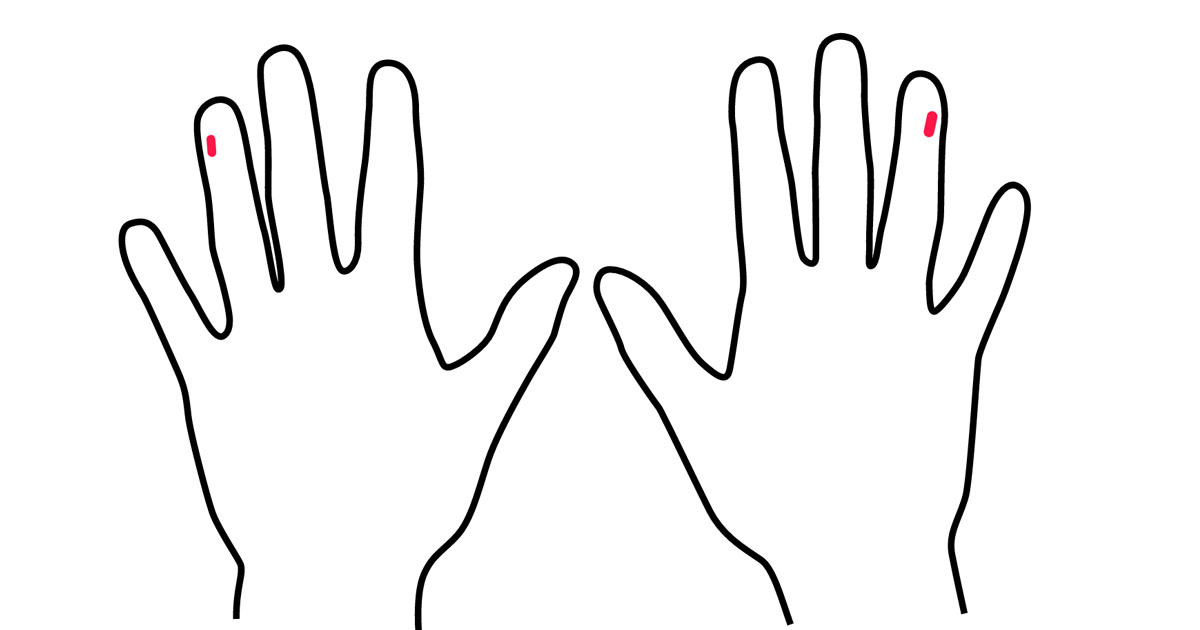
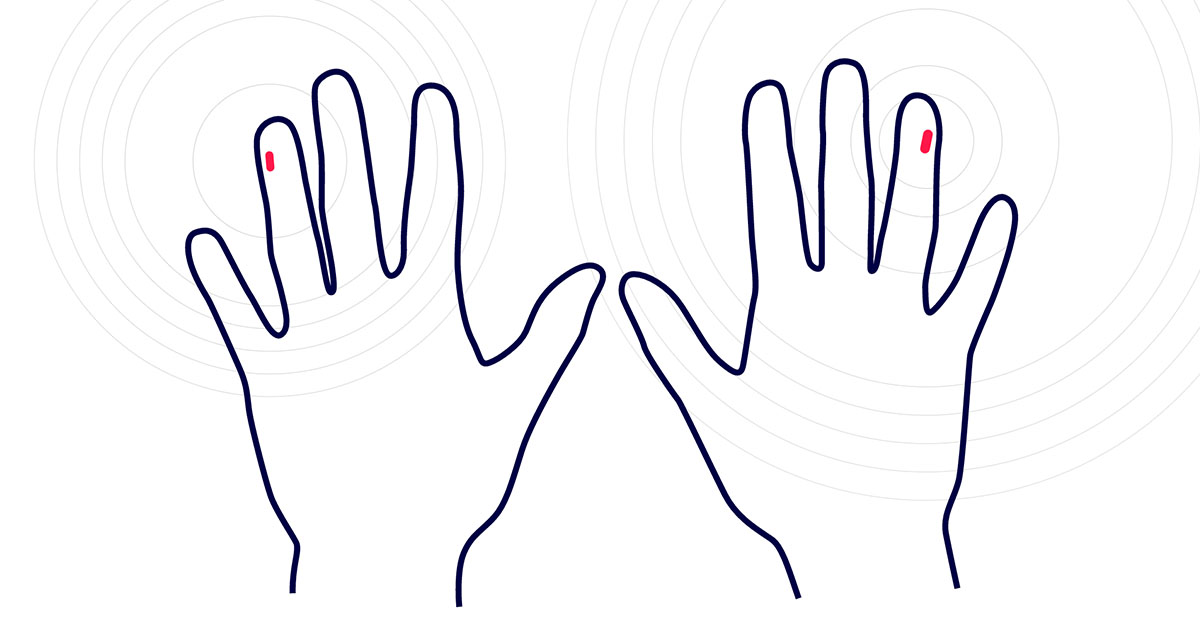
:rocket:

Changed region(s): [[0.0925, 0.0302, 0.8633, 1.0], [0.185, 0.7238, 0.2467, 0.9952]]

diff --git a/docs/index.html b/docs/index.html
@@ -1,5 +1,5 @@
-<!DOCTYPE html><html><head><meta charset="utf-8"><meta name="viewport" content="width=device-width,initial-scale=1,user-scalable=no"><title>Magnet Finge.rs</title><style>body {display: none; background: #f7ffb4}</style><link rel="icon" type="image/png" href="/favicon.png" sizes="64x64"><meta property="og:title" content="Magnet Finge.rs"><meta name="twitter:title" content="Magnet Finge.rs"><meta name="description" content="Magnet Finge.rs is a resource for magnetic finger implats, created by Charlotte Dann"><meta name="og:description" content="Magnet Finge.rs is a resource for magnetic finger implats, created by Charlotte Dann"><meta name="twitter:description" content="Magnet Finge.rs is a resource for magnetic finger implats, created by Charlotte Dann"><meta property="og:image" content="http://magnetfinge.rs/opengraph.jpg"><meta property="og:image:width" content="1200"><meta property="og:image:height" content="630"><meta name="twitter:image" content="http://magnetfinge.rs/twittercard.jpg"><script async src="https://www.googletagmanager.com/gtag/js?id=UA-132874169-1"></script><script>window.dataLayer = window.dataLayer || [];
+<!DOCTYPE html><html><head><meta charset="utf-8"><meta name="viewport" content="width=device-width,initial-scale=1,user-scalable=no"><title>Magnet Finge.rs</title><style>body {display: none; background: #f7ffb4}</style><link rel="icon" type="image/png" href="/favicon.png" sizes="64x64"><meta property="og:title" content="Magnet Finge.rs"><meta name="twitter:title" content="Magnet Finge.rs"><meta name="description" content="A resource for magnetic finger implants, created by Charlotte Dann. What is a magnetic implant? Why would you want such a thing? Are you going to die? Yes. We will all die."><meta name="og:description" content="A resource for magnetic finger implants, created by Charlotte Dann. What is a magnetic implant? Why would you want such a thing? Are you going to die? Yes. We will all die."><meta name="twitter:description" content="A resource for magnetic finger implants, created by Charlotte Dann. What is a magnetic implant? Why would you want such a thing? Are you going to die? Yes. We will all die."><meta property="og:image" content="http://magnetfinge.rs/opengraph.jpg"><meta property="og:image:width" content="1200"><meta property="og:image:height" content="630"><meta name="twitter:image" content="http://magnetfinge.rs/twittercard.jpg"><meta name="twitter:card" content="summary"><script async src="https://www.googletagmanager.com/gtag/js?id=UA-132874169-1"></script><script>window.dataLayer = window.dataLayer || [];
 function gtag(){dataLayer.push(arguments);}
 gtag('js', new Date());
 gtag('config', 'UA-132874169-1');
-</script><link href="/main.css" rel="stylesheet"></head><body><div class="intro"><svg class="hands" xmlns="http://www.w3.org/2000/svg" viewBox="0 0 841.7 558.7"><path class="hands__outline" d="M110.3 537.4c-.8-27.2 6.6-40 4-49.2-1.5-5.2-20.2-31.6-25.6-47-5.4-15.5-20.5-73.4-22.2-88.6-1.8-15.2-2.1-23.6-9.5-40.2-7.3-16.6-27.4-62.4-31.8-69.5s-13.3-21.5-17.1-36.3c-3.8-14.9-2.2-26.1 5.7-28.8 7.9-2.7 18.1-4.2 25.9 10.1 7.9 14.3 20.3 40.4 28.5 53.1 8.3 12.7 21.3 45.5 30.9 38.6s3.2-27.5 0-41.5-8.7-28.5-10.3-37.6c-1.6-9.2-2-37.3-5.1-53.2-3.1-16-12.3-54.5-8-66.9C80 68 94.4 60.2 105.5 68.1s15.7 50.4 17.9 60.3c2.2 9.9 8.3 42.5 12.2 55.8s8.5 52.2 12.4 53.2 4.1-5 1.8-22.6-9.7-49.6-10.4-61c-.7-11.4 1-41.1-.9-55.6s-8.8-56.6-5.3-66.6 24-22.8 34.7-5.2 13.1 50.2 15 60.1 7 54.1 9.5 64.3c2.5 10.2 4.8 65.3 14.4 69.9 4.4 2.1 15.1-5 14.3-27.4-.9-22.5 3.6-53 5.8-68.1 2.7-17.8 2.7-37.6 4.1-50.8 1.4-13.3-3.6-41.8 15.8-42.9 19.5-1.1 26.7 19.9 26.7 42.3 0 21.1 5.6 45.9 4.5 67.9-1.1 22-4.5 51.1-3.2 72.6 1.3 21.5 5.4 53.3 14.3 70.7 9 17.4 7.6 26 16.9 22.8 9.3-3.3 30.2-17.3 36.6-31.1 6.5-13.9 10-32.3 31.4-49.6 21.5-17.3 35-19.6 42.5-12.6s-.5 18.4-5.6 28.3c-5.2 10-9.1 27.9-11.6 35.8-1.7 5.6-15.5 26.5-23.3 40.3-7.8 13.7-28.8 50.2-36.8 74.6s-14.6 52.7-27.5 67.3c-12.9 14.7-23.5 18.2-31.1 36.9-7.5 18.8-4.3 53.2-4.3 53.2M614.5 542.4c-7.3-20.2-15.2-49.8-25.7-57.8s-34.7-19.9-47.6-45.1c-12.9-25.2-43.1-89.8-46.7-94.6-3.6-4.8-31.8-44.1-34.1-54s-18.2-38.9-21-47.4c-2.9-8.5-1.5-24.3 11.2-24.1 12.7.2 33.8 11.2 47.5 32.4s24.8 43.2 36.8 53.8c12 10.6 21.1 17 23.8 6.5 2.7-10.5 8.4-57.3 11.6-69.5 3.2-12.2-.7-38-2.2-56.6-1.5-18.6-4.3-88.6-6.1-97.1s-1.8-39 5.5-49.8 23.1-14.8 29.1-5.2c6 9.6 8.1 48.6 8.9 56.9s8.5 38.9 10.3 52.1c1.8 13.2 5.9 61.4 10.6 66.8 4.7 5.4 11.1 7 11.2-2 .1-9-.2-66.8-.7-74.1s3-47 1.8-55.6.1-46.1 3.1-57S656 4 669.7 9.2s12 42 11.9 51.4 2.8 47.3 5.1 63.1c2.3 15.9-1 60.2-.5 72.2.4 12-2.2 22.9 2.6 19.9s5.2-22.7 9-36.6 13.6-71 14.5-87.8c.9-16.8.4-51.8 21.6-50.1 21.1 1.7 22.6 35.3 19.9 50.8-2.7 15.5-2 68.6-2.9 81s-10.7 48.1-10.3 59.4-.1 29.8 6.9 24.1 19.3-22.1 24.6-32.8c5.3-10.7 15.3-37.4 20.8-51.4s17.1-36.5 29.6-27.9 6.9 30.3 2.9 46.4c-4 16.1-15.3 47.9-19.1 56.8-3.8 8.9-19 42.6-20.8 52.1-1.7 9.5-7 106-11.5 125s-16.6 33.4-12.7 53.6 11.4 54.1 11.4 54.1"></path><path class="hands__magnets" id="rightMagnet" d="M739.4 99c-2.6-.5-4.3-3.1-3.7-5.7l2.9-14.1c.5-2.6 3.1-4.3 5.7-3.7 2.6.5 4.3 3.1 3.7 5.7l-2.9 14.1c-.6 2.6-3.1 4.3-5.7 3.7z"></path><path class="hands__magnets" id="leftMagnet" d="M88.4 117c-2.2.2-4.2-1.5-4.3-3.7l-1-12c-.2-2.2 1.5-4.2 3.7-4.3 2.2-.2 4.2 1.5 4.3 3.7l1 12c.2 2.2-1.4 4.1-3.7 4.3z"></path></svg><h1>I have magnets implanted in my hands</h1></div><div class="tldr"><h2 class="tldr__title">TLDR;</h2><div class="tldr__table"><div class="tldr__column"><svg class="tldr__column__title tldr__column__title--positive" xmlns="http://www.w3.org/2000/svg" viewBox="0 0 41.8 52.4" title="good things"><path d="M20.1 18.8c0-1.3.4-3.3 1.1-6.1 1.1-4.1-1.7-8-5-9.5-.7-.3-1.2-.2-1.6.2-.1.2-.1.3-.1.5 0 .9.1 1.9 0 2.7 0 .7 0 1.4-.1 2-.3 3.6-1 5.6-3 9.5-1 1.9-2.2 3.3-3.8 4.8-.5.5-2.1 1.8-2.1 1.9-.3.2-.5.4-.7.6-2.5 6.7-2.3 16.9.4 22.2 3.8.9 8.1 1.5 12.1 1.7-.4-.7-.7-1.6-.7-2.6s.4-2 .9-2.7c-1.8-1-2.6-2.9-2.3-5.1.1-1 .4-1.8.9-2.4-1.4-1.1-2-2.8-1.8-5 .3-2 1.2-3.5 2.6-4.2-.5-.8-.7-2-.6-3.4.3-3.1 1.4-4.3 3.8-5.1zm4 2.4c-.1 0-.2 0-.2.1l-2.6.3h-.1c-1.5.5-1.7.7-1.9 2.5-.2 1.7.3 2.1 2 2.5 1.2.3 3.1.5 5.6.5.8 0 1.5.7 1.5 1.5s-.7 1.5-1.5 1.5c-1.7-.1-3.3-.2-4.5-.3h-3.3c-.9 0-1.5.6-1.7 2.1-.2 1.8.3 2.6 2.2 2.7 1.3.1 3.1.2 4.9.3.8 0 1.5.7 1.5 1.5s-.7 1.5-1.5 1.5c-.9 0-1.8-.1-2.6-.1h-2.3c-.8 0-1.2.4-1.4 1.6-.2 1.4.4 2.3 2.2 2.5 1 .1 2 .2 3 .2h1.7c.8 0 1.5.7 1.5 1.5s-.7 1.5-1.5 1.5h-3.7c-.9 0-1.9.8-1.9 1.8 0 1.2.6 1.8 2.9 2 2.7.3 7.5.1 8.8-.4.2-.1.3-.1.5-.1.2-.1.3-.1.4-.2 1-.5 1.6-1.7 1.4-4.9 0-.5.2-1 .6-1.3 2-1.4 2.3-2.9 1.5-5.6-.2-.8.3-1.7 1.2-1.9.4-.1 1-.9 1.3-2.1.3-1.2.1-2.3-.3-2.6-.7-.6-.7-1.6-.1-2.2.5-.4 1-1.8 1-2.9 0-2-.7-2.9-2.6-3.2-1.2-.2-2.6-.3-4.1-.4-2.5-.1-5.2 0-7.8.2 0-.1 0-.1-.1-.1zm9.4 29.6c-.3.2-.6.3-1 .4-.1 0-.3.1-.4.1l-.3.1c-5.4 1.5-18.4 1.4-27.9-1.1-.4-.1-.7-.3-.9-.7-3.5-6-3.8-17.9-.8-25.6.1-.2.2-.4.3-.5.3-.3.7-.7 1.1-1 .1-.1 1.6-1.4 2.1-1.8 1.4-1.3 2.4-2.5 3.2-4 1.9-3.6 2.4-5.3 2.7-8.4 0-.5.1-1.1.1-1.7V4v-.9c0-.3.1-.6.2-.9.2-.3.5-.7.9-1.1C14.1 0 15.7-.4 17.6.5c4.5 2 8.2 7.3 6.7 13-.5 2-.8 3.6-1 4.7.3.1.6 0 .9 0 2.7-.2 5.5-.3 8.2-.2 1.6.1 3.1.2 4.5.4 3.5.6 5.2 2.7 5.1 6.2 0 1.4-.4 2.9-1.1 4 1.3 2.5.4 6.5-1.8 8.1.6 2.9 0 5.3-2.3 7.2-.2 3.8-1.3 5.9-3.3 6.9z"></path></svg><div class="tldr__column__item">sense EM fields</div><div class="tldr__column__item">pick up tiny things</div><div class="tldr__column__item">freak out friends</div></div><div class="tldr__column"><svg class="tldr__column__title tldr__column__title--negative" xmlns="http://www.w3.org/2000/svg" viewBox="0 0 41.8 52.4" title="bad things"><path d="M21.7 33.6c0 1.3-.4 3.3-1.1 6.1-1.1 4.1 1.7 8 5 9.5.7.3 1.2.2 1.6-.2.1-.2.1-.3.1-.5 0-.9-.1-1.9 0-2.7 0-.7 0-1.4.1-2 .3-3.6 1-5.6 3-9.5 1-1.9 2.2-3.3 3.8-4.8.5-.5 2.1-1.8 2.1-1.9.3-.2.5-.5.7-.7 2.5-6.7 2.3-16.9-.4-22.2-3.8-.9-8.1-1.5-12.1-1.7.4.7.7 1.6.7 2.6s-.4 2-.9 2.7c1.8 1 2.6 2.9 2.3 5.1-.1 1-.4 1.8-.9 2.4 1.4 1.1 2 2.8 1.8 5-.3 2-1.2 3.5-2.6 4.2.5.8.7 2 .6 3.4-.3 3.2-1.4 4.3-3.8 5.2zm-4-2.4c.1 0 .2 0 .2-.1l2.6-.3h.1c1.5-.5 1.7-.7 1.9-2.5.2-1.7-.3-2.1-2-2.5-1.2-.3-3.1-.5-5.6-.5-.8 0-1.5-.7-1.5-1.5s.7-1.5 1.5-1.5c1.7.1 3.3.2 4.5.3h3.3c.9 0 1.5-.6 1.7-2.1.2-1.8-.3-2.6-2.2-2.7-1.3-.1-3.1-.2-4.9-.3-.8 0-1.5-.7-1.5-1.5s.7-1.5 1.5-1.5c.9 0 1.8.1 2.6.1h2.3c.8 0 1.2-.4 1.4-1.6.2-1.4-.4-2.3-2.2-2.5-1-.1-2-.2-3-.2h-1.7c-.8 0-1.5-.7-1.5-1.5s.7-1.5 1.5-1.5h3.7c.9 0 1.9-.8 1.9-1.8 0-1.2-.6-1.8-2.9-2-2.7-.3-7.5-.1-8.8.4-.2.1-.3.1-.5.1-.2.1-.3.2-.5.2-.9.5-1.5 1.8-1.4 4.9 0 .5-.2 1-.6 1.3-2 1.4-2.3 2.9-1.5 5.6.2.8-.3 1.7-1.2 1.9-.4.1-1 .9-1.3 2.1-.3 1.2-.1 2.3.3 2.6.7.6.7 1.6.1 2.2-.5.4-1 1.8-1 2.9 0 2 .7 2.9 2.6 3.2 1.2.2 2.6.3 4.1.4 2.5.1 5.2 0 7.8-.2.1.1.1.1.2.1zM8.3 1.5c.3-.2.6-.3 1-.4.1 0 .3-.1.4-.1l.3-.1C15.5-.5 28.5-.4 38 2c.4.1.7.3.9.7 3.5 6 3.8 17.9.8 25.6-.1.2-.2.4-.3.5-.3.3-.7.7-1.1 1-.1.1-1.6 1.4-2.1 1.8-1.4 1.3-2.4 2.5-3.2 4-1.9 3.6-2.4 5.3-2.7 8.4 0 .5-.1 1.1-.1 1.7v3.5c0 .3-.1.6-.2.9-.2.3-.5.7-.9 1.1-1.3 1.1-2.9 1.5-4.8.6-4.5-2-8.2-7.3-6.7-13 .5-2 .8-3.6 1-4.7-.3-.1-.6 0-.9 0-2.7.2-5.5.3-8.2.2-1.5 0-3-.1-4.4-.3-3.4-.6-5.1-2.8-5.1-6.2 0-1.4.4-2.9 1.1-4-1.3-2.5-.4-6.5 1.8-8.1-.6-2.9 0-5.3 2.3-7.2 0-3.8 1.1-6 3.1-7z"></path></svg><div class="tldr__column__item">painful procedure</div><div class="tldr__column__item">can't get MRIs</div><div class="tldr__column__item">wipes hotel keycards</div></div></div></div><div class="faqs"><h2 class="faqs__title">Frequently Asked Questions</h2><div class="faq"><input class="faq__checkbox" type="checkbox" id="faq1"><label class="faq__question" for="faq1">Why would you do this?</label><p class="faq__answer">I got my implants primarily to experiment with electromagnetic fields as an extra human sense. I also find being able to sense live wires and check whether metals are ferrous genuinely useful functions as a maker - not to mention picking up dropped clothes pins.</p></div><div class="faq"><input class="faq__checkbox" type="checkbox" checked id="faq2"><label class="faq__question" for="faq2">How does the EM field thing work?</label><p class="faq__answer">Electromagnetic fields cause the magnet’s polarity to flip, making it vibrate slightly under the skin. As there are a lot of nerve endings in the fingertips you can feel the vibration, varying in strength and frequency.</p></div><div class="faq"><input class="faq__checkbox" type="checkbox" id="faq3"><label class="faq__question" for="faq3">What can you sense?</label><p class="faq__answer">Microwaves, high voltage cables (ones that run under canal towpaths are very potent), approaching underground trains, any sort of motor if you’re close enough. It is surprising how many pockets of EM fields you can find around the house.</p></div><div class="faq"><input class="faq__checkbox" type="checkbox" id="faq4"><label class="faq__question" for="faq4">What does it feel like?</label><p class="faq__answer">The EM vibration is a strange sensation, especially when you first start feeling it. After about 6 months it stopped feeling like a sensation in my finger, and more a sense hooked up in my brain to ‘there’s some EM fields near your hand’.</p></div><div class="faq"><input class="faq__checkbox" type="checkbox" checked id="faq5"><label class="faq__question" for="faq5">What are they made from?</label><p class="faq__answer">Mine are both rounded rice-shaped neodymium magnets, coated in gold and then coated in medical grade silicone.</p></div><div class="faq"><input class="faq__checkbox" type="checkbox" id="faq6"><label class="faq__question" for="faq6">What’s the procedure like?</label><p class="faq__answer">Quite terrifying. If you are considering this you need to make sure it’s in a sterile environment and the procedure is done by a medical professional. You should receive some local anesthetic, then an incision is made horizontally above the desired position of the magnet. Space under the skin is hollowed out and the magnet is pushed in. A single stitch closes the incision. The finger should be kept on ice for at least 3 hours, ibuprofen can help ease the pain over the following 2 days. The magnet can move under the skin so should be recentered until it is stuck in position (just to the side of the finger pad). After a week you can use the finger for light work, and it will be fully healed in a month. </p></div><div class="faq"><input class="faq__checkbox" type="checkbox" id="faq7"><label class="faq__question" for="faq7">When and where did you get yours implanted?</label><p class="faq__answer">The smaller magnet in my left hand was implanted in December 2015, the other in November 2016. I had them both done by a body mod artist in New York for $150 each. I found one person in London who would do the procedure for £200 a pop.</p></div><div class="faq"><input class="faq__checkbox" type="checkbox" id="faq8"><label class="faq__question" for="faq8">Why are they in your ring finger?</label><p class="faq__answer">Although this is now a pretty safe procedure and the magnets are rarely rejected or break, when the first implants were being done in the early 2000s it was quite dangerous. They recommend you get the implant in your least dominant hand, in the least important finger, so that if necessary the finger can be amputated and minimally affect your hand functionality. You asked the question. Shut up.</p></div><div class="faq"><input class="faq__checkbox" type="checkbox" id="faq9"><label class="faq__question" for="faq9">Why do you have two?</label><p class="faq__answer">I was offered a choice of two sizes and was a bit hesitant to go big on my first try, so I picked the small one. I went back to get the bigger one in my other hand to increase the sensation and weight of things I could pick up, and also to experiment with a 3D EM sense (like having 2 eyes for perspective).</p></div><div class="faq"><input class="faq__checkbox" type="checkbox" id="faq10"><label class="faq__question" for="faq10">Can you see them?</label><p class="faq__answer">You can see them under the skin if you’re looking due to a slight discoloration, but they’re not obvious.</p></div><div class="faq"><input class="faq__checkbox" type="checkbox" checked id="faq11"><label class="faq__question" for="faq11">Can you feel them?</label><p class="faq__answer">Yes you can feel them under the skin. Good way to freak people out / prove it’s real.</p></div><div class="faq"><input class="faq__checkbox" type="checkbox" id="faq12"><label class="faq__question" for="faq12">Do they affect what you can do with your hands?</label><p class="faq__answer">Minimally. If placed properly they shouldn’t get in the way of typing, for example. I struggle a bit to play the guitar when I have to use my ring finger to hold down multiple strings. It is an unyielding object inside your hand though, so sometimes if you hit it at the wrong angle it can hurt; I had this at the start with light switches quite often but I guess I adapted my style of flipping light switches. You have to be wary around other magnets, because strong ones can hurt a lot (literally the magnet inside of you is being pulled out. not nice.), this is an increasing concern because for some reason magnets are in everything now - I can’t put the pads of my fingers against the edge of my laptop because of the magnetic closing mechanism. Also my phone has a magnetic sensor in the back for smart cases so it randomly locks itself when I’m holding it which is very annoying, but you get used to these kind of things and naturally avoid them.</p></div><div class="faq"><input class="faq__checkbox" type="checkbox" checked id="faq13"><label class="faq__question" for="faq13">What’s the heaviest thing you can pick up?</label><p class="faq__answer">The small magnet is quite pathetic, maybe 5 paperclips. The big magnet can pick up a ballpoint pen, or a small spoon.</p></div><div class="faq"><input class="faq__checkbox" type="checkbox" id="faq14"><label class="faq__question" for="faq14">Don’t you break [insert electronic object here]?</label><p class="faq__answer">I wipe hotel keycards instantly unless I hold them between my index finger and thumb, and have the ring finger tucked into my palm (a pose I’m used to now, and one that only matters when you have them in both hands). Besides that you’re all good; never had a problem with phones or credit cards or hard drives or SD cards. AFAIK they’re too small to have any significant effect on electronics.</p></div><div class="faq"><input class="faq__checkbox" type="checkbox" id="faq15"><label class="faq__question" for="faq15">Can you get MRIs?</label><p class="faq__answer">Not as is. I have heard that if you tell the radiologist that you have the implant they can add some sort of guard or tape to cover it up that won’t affect the machine, but conflictingly have heard people being turned down for MRIs because of it. I have not faced this problem yet, but have been damn sure to tell all my emergency contacts to immediately tell my medics about the implants if I’m in an accident.</p></div><div class="faq"><input class="faq__checkbox" type="checkbox" id="faq16"><label class="faq__question" for="faq16">Can you go through airport security?</label><p class="faq__answer">Yep, not a problem.</p></div><div class="faq"><input class="faq__checkbox" type="checkbox" id="faq17"><label class="faq__question" for="faq17">Is it dangerous?</label><p class="faq__answer">The danger is in the coating of the magnet breaking down and the metal getting into your blood, hence the whole ‘disposable finger’ thing. I am cautious of any changes in the sensation of the magnets and will not hesitate to have them removed if I am concerned. If something breaks down they should be able to be taken out without damage to the rest of the finger if you catch it early enough. There is a very small chance of this happening though.</p></div><div class="faq"><input class="faq__checkbox" type="checkbox" id="faq18"><label class="faq__question" for="faq18">Do they wear out?</label><p class="faq__answer">Apparently they do. Some say their magnetism dropped off at the 5 year mark, others have said 10-15 years, it depends on the quality of your magnets. Mine are 2 and 3 years old and are still fully functional. I will probably have them removed once they demagnetise.</p></div><div class="faq"><input class="faq__checkbox" type="checkbox" id="faq19"><label class="faq__question" for="faq19">How do you have them taken out?</label><p class="faq__answer">In a sterile environment by a medical professional. I have been told that you can get them removed at A&E (that’s ER to you yanks) with no questions asked. Yay NHS. I have yet to check the validity of this claim. Assuming it’s a bit more gory than the implantation because they’d have to cut away the surrounding tissue. Not looking forward to that.</p></div><div class="faq"><input class="faq__checkbox" type="checkbox" id="faq20"><label class="faq__question" for="faq20">Where can I get one?</label><p class="faq__answer">You still think this is a good idea! Cool! Biohackers seem quite reluctant to share this data, I had to crawl a lot of forums to find the right person to do mine, and I feel I should respect that reticence. That being said, if you need a NYC recommendation send me an email and I’ll pass you on to my guy. (I have a guy!)</p></div><div class="faq"><input class="faq__checkbox" type="checkbox" id="faq21"><label class="faq__question" for="faq21">What other implants exist?</label><p class="faq__answer">RFID and NFC chips are quite abundant but limited in functionality. I’ve seen quite a few large and intrusive biohacking experiments, which I personally wouldn’t touch with a 10ft pole.</p></div></div><div class="research"><h2 class="research__title">Projects</h2><p class="research__description">A few of my projects involving magnet fingers</p><div class="research__table"><div class="research__item"><div class="research__item__video"><iframe width="560" height="315" src="https://www.youtube.com/embed/oeN270w83Cw?color=white&amp;rel=0" frameborder="0" allow="accelerometer; autoplay; encrypted-media; gyroscope; picture-in-picture" allowfullscreen=""></iframe></div><p class="research__item__description">Visualising disturbances to the magnetic field <a href="https://pouretrebelle.github.io/magnetic-drawing-machine/">more info →</a></p></div><div class="research__item"><div class="research__item__video"><iframe width="560" height="315" src="https://www.youtube.com/embed/bYPkuMVaIxE?color=white&amp;rel=0" frameborder="0" allow="accelerometer; autoplay; encrypted-media; gyroscope; picture-in-picture" allowfullscreen=""></iframe></div><p class="research__item__description">A device that communicates invisibly with morse code <a href="https://pouretrebelle.github.io/arduino-morse/">more info →</a></p></div></div><p class="research__footnote">I would love to do some more research with this technology, especially in the fields of linguistics and compensation for sensory disability. If you're intersted in working with me please <a href="mailto:ask@pouretrebelle">shoot me an email</a> and we can have a chat about it.</p></div><script type="text/javascript" src="/main.js"></script></body></html>
+</script><link href="/main.css" rel="stylesheet"></head><body><div class="intro"><svg class="hands" xmlns="http://www.w3.org/2000/svg" viewBox="0 0 841.7 558.7"><path class="hands__outline" d="M110.3 537.4c-.8-27.2 6.6-40 4-49.2-1.5-5.2-20.2-31.6-25.6-47-5.4-15.5-20.5-73.4-22.2-88.6-1.8-15.2-2.1-23.6-9.5-40.2-7.3-16.6-27.4-62.4-31.8-69.5s-13.3-21.5-17.1-36.3c-3.8-14.9-2.2-26.1 5.7-28.8 7.9-2.7 18.1-4.2 25.9 10.1 7.9 14.3 20.3 40.4 28.5 53.1 8.3 12.7 21.3 45.5 30.9 38.6s3.2-27.5 0-41.5-8.7-28.5-10.3-37.6c-1.6-9.2-2-37.3-5.1-53.2-3.1-16-12.3-54.5-8-66.9C80 68 94.4 60.2 105.5 68.1s15.7 50.4 17.9 60.3c2.2 9.9 8.3 42.5 12.2 55.8s8.5 52.2 12.4 53.2 4.1-5 1.8-22.6-9.7-49.6-10.4-61c-.7-11.4 1-41.1-.9-55.6s-8.8-56.6-5.3-66.6 24-22.8 34.7-5.2 13.1 50.2 15 60.1 7 54.1 9.5 64.3c2.5 10.2 4.8 65.3 14.4 69.9 4.4 2.1 15.1-5 14.3-27.4-.9-22.5 3.6-53 5.8-68.1 2.7-17.8 2.7-37.6 4.1-50.8 1.4-13.3-3.6-41.8 15.8-42.9 19.5-1.1 26.7 19.9 26.7 42.3 0 21.1 5.6 45.9 4.5 67.9-1.1 22-4.5 51.1-3.2 72.6 1.3 21.5 5.4 53.3 14.3 70.7 9 17.4 7.6 26 16.9 22.8 9.3-3.3 30.2-17.3 36.6-31.1 6.5-13.9 10-32.3 31.4-49.6 21.5-17.3 35-19.6 42.5-12.6s-.5 18.4-5.6 28.3c-5.2 10-9.1 27.9-11.6 35.8-1.7 5.6-15.5 26.5-23.3 40.3-7.8 13.7-28.8 50.2-36.8 74.6s-14.6 52.7-27.5 67.3c-12.9 14.7-23.5 18.2-31.1 36.9-7.5 18.8-4.3 53.2-4.3 53.2M614.5 542.4c-7.3-20.2-15.2-49.8-25.7-57.8s-34.7-19.9-47.6-45.1c-12.9-25.2-43.1-89.8-46.7-94.6-3.6-4.8-31.8-44.1-34.1-54s-18.2-38.9-21-47.4c-2.9-8.5-1.5-24.3 11.2-24.1 12.7.2 33.8 11.2 47.5 32.4s24.8 43.2 36.8 53.8c12 10.6 21.1 17 23.8 6.5 2.7-10.5 8.4-57.3 11.6-69.5 3.2-12.2-.7-38-2.2-56.6-1.5-18.6-4.3-88.6-6.1-97.1s-1.8-39 5.5-49.8 23.1-14.8 29.1-5.2c6 9.6 8.1 48.6 8.9 56.9s8.5 38.9 10.3 52.1c1.8 13.2 5.9 61.4 10.6 66.8 4.7 5.4 11.1 7 11.2-2 .1-9-.2-66.8-.7-74.1s3-47 1.8-55.6.1-46.1 3.1-57S656 4 669.7 9.2s12 42 11.9 51.4 2.8 47.3 5.1 63.1c2.3 15.9-1 60.2-.5 72.2.4 12-2.2 22.9 2.6 19.9s5.2-22.7 9-36.6 13.6-71 14.5-87.8c.9-16.8.4-51.8 21.6-50.1 21.1 1.7 22.6 35.3 19.9 50.8-2.7 15.5-2 68.6-2.9 81s-10.7 48.1-10.3 59.4-.1 29.8 6.9 24.1 19.3-22.1 24.6-32.8c5.3-10.7 15.3-37.4 20.8-51.4s17.1-36.5 29.6-27.9 6.9 30.3 2.9 46.4c-4 16.1-15.3 47.9-19.1 56.8-3.8 8.9-19 42.6-20.8 52.1-1.7 9.5-7 106-11.5 125s-16.6 33.4-12.7 53.6 11.4 54.1 11.4 54.1"></path><path class="hands__magnets" id="rightMagnet" d="M739.4 99c-2.6-.5-4.3-3.1-3.7-5.7l2.9-14.1c.5-2.6 3.1-4.3 5.7-3.7 2.6.5 4.3 3.1 3.7 5.7l-2.9 14.1c-.6 2.6-3.1 4.3-5.7 3.7z"></path><path class="hands__magnets" id="leftMagnet" d="M88.4 117c-2.2.2-4.2-1.5-4.3-3.7l-1-12c-.2-2.2 1.5-4.2 3.7-4.3 2.2-.2 4.2 1.5 4.3 3.7l1 12c.2 2.2-1.4 4.1-3.7 4.3z"></path></svg><h1>I have magnets implanted in my hands</h1></div><div class="tldr"><h2 class="tldr__title">TLDR;</h2><div class="tldr__table"><div class="tldr__column"><svg class="tldr__column__title tldr__column__title--positive" xmlns="http://www.w3.org/2000/svg" viewBox="0 0 41.8 52.4" title="good things"><path d="M20.1 18.8c0-1.3.4-3.3 1.1-6.1 1.1-4.1-1.7-8-5-9.5-.7-.3-1.2-.2-1.6.2-.1.2-.1.3-.1.5 0 .9.1 1.9 0 2.7 0 .7 0 1.4-.1 2-.3 3.6-1 5.6-3 9.5-1 1.9-2.2 3.3-3.8 4.8-.5.5-2.1 1.8-2.1 1.9-.3.2-.5.4-.7.6-2.5 6.7-2.3 16.9.4 22.2 3.8.9 8.1 1.5 12.1 1.7-.4-.7-.7-1.6-.7-2.6s.4-2 .9-2.7c-1.8-1-2.6-2.9-2.3-5.1.1-1 .4-1.8.9-2.4-1.4-1.1-2-2.8-1.8-5 .3-2 1.2-3.5 2.6-4.2-.5-.8-.7-2-.6-3.4.3-3.1 1.4-4.3 3.8-5.1zm4 2.4c-.1 0-.2 0-.2.1l-2.6.3h-.1c-1.5.5-1.7.7-1.9 2.5-.2 1.7.3 2.1 2 2.5 1.2.3 3.1.5 5.6.5.8 0 1.5.7 1.5 1.5s-.7 1.5-1.5 1.5c-1.7-.1-3.3-.2-4.5-.3h-3.3c-.9 0-1.5.6-1.7 2.1-.2 1.8.3 2.6 2.2 2.7 1.3.1 3.1.2 4.9.3.8 0 1.5.7 1.5 1.5s-.7 1.5-1.5 1.5c-.9 0-1.8-.1-2.6-.1h-2.3c-.8 0-1.2.4-1.4 1.6-.2 1.4.4 2.3 2.2 2.5 1 .1 2 .2 3 .2h1.7c.8 0 1.5.7 1.5 1.5s-.7 1.5-1.5 1.5h-3.7c-.9 0-1.9.8-1.9 1.8 0 1.2.6 1.8 2.9 2 2.7.3 7.5.1 8.8-.4.2-.1.3-.1.5-.1.2-.1.3-.1.4-.2 1-.5 1.6-1.7 1.4-4.9 0-.5.2-1 .6-1.3 2-1.4 2.3-2.9 1.5-5.6-.2-.8.3-1.7 1.2-1.9.4-.1 1-.9 1.3-2.1.3-1.2.1-2.3-.3-2.6-.7-.6-.7-1.6-.1-2.2.5-.4 1-1.8 1-2.9 0-2-.7-2.9-2.6-3.2-1.2-.2-2.6-.3-4.1-.4-2.5-.1-5.2 0-7.8.2 0-.1 0-.1-.1-.1zm9.4 29.6c-.3.2-.6.3-1 .4-.1 0-.3.1-.4.1l-.3.1c-5.4 1.5-18.4 1.4-27.9-1.1-.4-.1-.7-.3-.9-.7-3.5-6-3.8-17.9-.8-25.6.1-.2.2-.4.3-.5.3-.3.7-.7 1.1-1 .1-.1 1.6-1.4 2.1-1.8 1.4-1.3 2.4-2.5 3.2-4 1.9-3.6 2.4-5.3 2.7-8.4 0-.5.1-1.1.1-1.7V4v-.9c0-.3.1-.6.2-.9.2-.3.5-.7.9-1.1C14.1 0 15.7-.4 17.6.5c4.5 2 8.2 7.3 6.7 13-.5 2-.8 3.6-1 4.7.3.1.6 0 .9 0 2.7-.2 5.5-.3 8.2-.2 1.6.1 3.1.2 4.5.4 3.5.6 5.2 2.7 5.1 6.2 0 1.4-.4 2.9-1.1 4 1.3 2.5.4 6.5-1.8 8.1.6 2.9 0 5.3-2.3 7.2-.2 3.8-1.3 5.9-3.3 6.9z"></path></svg><div class="tldr__column__item">sense EM fields</div><div class="tldr__column__item">pick up tiny things</div><div class="tldr__column__item">freak out friends</div></div><div class="tldr__column"><svg class="tldr__column__title tldr__column__title--negative" xmlns="http://www.w3.org/2000/svg" viewBox="0 0 41.8 52.4" title="bad things"><path d="M21.7 33.6c0 1.3-.4 3.3-1.1 6.1-1.1 4.1 1.7 8 5 9.5.7.3 1.2.2 1.6-.2.1-.2.1-.3.1-.5 0-.9-.1-1.9 0-2.7 0-.7 0-1.4.1-2 .3-3.6 1-5.6 3-9.5 1-1.9 2.2-3.3 3.8-4.8.5-.5 2.1-1.8 2.1-1.9.3-.2.5-.5.7-.7 2.5-6.7 2.3-16.9-.4-22.2-3.8-.9-8.1-1.5-12.1-1.7.4.7.7 1.6.7 2.6s-.4 2-.9 2.7c1.8 1 2.6 2.9 2.3 5.1-.1 1-.4 1.8-.9 2.4 1.4 1.1 2 2.8 1.8 5-.3 2-1.2 3.5-2.6 4.2.5.8.7 2 .6 3.4-.3 3.2-1.4 4.3-3.8 5.2zm-4-2.4c.1 0 .2 0 .2-.1l2.6-.3h.1c1.5-.5 1.7-.7 1.9-2.5.2-1.7-.3-2.1-2-2.5-1.2-.3-3.1-.5-5.6-.5-.8 0-1.5-.7-1.5-1.5s.7-1.5 1.5-1.5c1.7.1 3.3.2 4.5.3h3.3c.9 0 1.5-.6 1.7-2.1.2-1.8-.3-2.6-2.2-2.7-1.3-.1-3.1-.2-4.9-.3-.8 0-1.5-.7-1.5-1.5s.7-1.5 1.5-1.5c.9 0 1.8.1 2.6.1h2.3c.8 0 1.2-.4 1.4-1.6.2-1.4-.4-2.3-2.2-2.5-1-.1-2-.2-3-.2h-1.7c-.8 0-1.5-.7-1.5-1.5s.7-1.5 1.5-1.5h3.7c.9 0 1.9-.8 1.9-1.8 0-1.2-.6-1.8-2.9-2-2.7-.3-7.5-.1-8.8.4-.2.1-.3.1-.5.1-.2.1-.3.2-.5.2-.9.5-1.5 1.8-1.4 4.9 0 .5-.2 1-.6 1.3-2 1.4-2.3 2.9-1.5 5.6.2.8-.3 1.7-1.2 1.9-.4.1-1 .9-1.3 2.1-.3 1.2-.1 2.3.3 2.6.7.6.7 1.6.1 2.2-.5.4-1 1.8-1 2.9 0 2 .7 2.9 2.6 3.2 1.2.2 2.6.3 4.1.4 2.5.1 5.2 0 7.8-.2.1.1.1.1.2.1zM8.3 1.5c.3-.2.6-.3 1-.4.1 0 .3-.1.4-.1l.3-.1C15.5-.5 28.5-.4 38 2c.4.1.7.3.9.7 3.5 6 3.8 17.9.8 25.6-.1.2-.2.4-.3.5-.3.3-.7.7-1.1 1-.1.1-1.6 1.4-2.1 1.8-1.4 1.3-2.4 2.5-3.2 4-1.9 3.6-2.4 5.3-2.7 8.4 0 .5-.1 1.1-.1 1.7v3.5c0 .3-.1.6-.2.9-.2.3-.5.7-.9 1.1-1.3 1.1-2.9 1.5-4.8.6-4.5-2-8.2-7.3-6.7-13 .5-2 .8-3.6 1-4.7-.3-.1-.6 0-.9 0-2.7.2-5.5.3-8.2.2-1.5 0-3-.1-4.4-.3-3.4-.6-5.1-2.8-5.1-6.2 0-1.4.4-2.9 1.1-4-1.3-2.5-.4-6.5 1.8-8.1-.6-2.9 0-5.3 2.3-7.2 0-3.8 1.1-6 3.1-7z"></path></svg><div class="tldr__column__item">painful procedure</div><div class="tldr__column__item">can't get MRIs</div><div class="tldr__column__item">wipes hotel keycards</div></div></div></div><div class="faqs"><h2 class="faqs__title">Frequently Asked Questions</h2><div class="faq"><input class="faq__checkbox" type="checkbox" id="faq1"><label class="faq__question" for="faq1">Why would you do this?</label><p class="faq__answer">I got my implants primarily to experiment with electromagnetic fields as an extra human sense. I also find being able to sense live wires and check whether metals are ferrous genuinely useful functions as a maker - not to mention picking up dropped clothes pins.</p></div><div class="faq"><input class="faq__checkbox" type="checkbox" checked id="faq2"><label class="faq__question" for="faq2">How does the EM field thing work?</label><p class="faq__answer">Electromagnetic fields cause the magnet’s polarity to flip, making it vibrate slightly under the skin. As there are a lot of nerve endings in the fingertips you can feel the vibration, varying in strength and frequency.</p></div><div class="faq"><input class="faq__checkbox" type="checkbox" id="faq3"><label class="faq__question" for="faq3">What can you sense?</label><p class="faq__answer">Microwaves, high voltage cables (ones that run under canal towpaths are very potent), approaching underground trains, any sort of motor if you’re close enough. It is surprising how many pockets of EM fields you can find around the house.</p></div><div class="faq"><input class="faq__checkbox" type="checkbox" id="faq4"><label class="faq__question" for="faq4">What does it feel like?</label><p class="faq__answer">The EM vibration is a strange sensation, especially when you first start feeling it. After about 6 months it stopped feeling like a sensation in my finger, and more a sense hooked up in my brain to ‘there’s some EM fields near your hand’.</p></div><div class="faq"><input class="faq__checkbox" type="checkbox" checked id="faq5"><label class="faq__question" for="faq5">What are they made from?</label><p class="faq__answer">Mine are both rounded rice-shaped neodymium magnets, coated in gold and then coated in medical grade silicone.</p></div><div class="faq"><input class="faq__checkbox" type="checkbox" id="faq6"><label class="faq__question" for="faq6">What’s the procedure like?</label><p class="faq__answer">Quite terrifying. If you are considering this you need to make sure it’s in a sterile environment and the procedure is done by a medical professional. You should receive some local anesthetic, then an incision is made horizontally above the desired position of the magnet. Space under the skin is hollowed out and the magnet is pushed in. A single stitch closes the incision. The finger should be kept on ice for at least 3 hours, ibuprofen can help ease the pain over the following 2 days. The magnet can move under the skin so should be recentered until it is stuck in position (just to the side of the finger pad). After a week you can use the finger for light work, and it will be fully healed in a month. </p></div><div class="faq"><input class="faq__checkbox" type="checkbox" id="faq7"><label class="faq__question" for="faq7">When and where did you get yours implanted?</label><p class="faq__answer">The smaller magnet in my left hand was implanted in December 2015, the other in November 2016. I had them both done by a body mod artist in New York for $150 each. I found one person in London who would do the procedure for £200 a pop.</p></div><div class="faq"><input class="faq__checkbox" type="checkbox" id="faq8"><label class="faq__question" for="faq8">Why are they in your ring finger?</label><p class="faq__answer">Although this is now a pretty safe procedure and the magnets are rarely rejected or break, when the first implants were being done in the early 2000s it was quite dangerous. They recommend you get the implant in your least dominant hand, in the least important finger, so that if necessary the finger can be amputated and minimally affect your hand functionality. You asked the question. Shut up.</p></div><div class="faq"><input class="faq__checkbox" type="checkbox" id="faq9"><label class="faq__question" for="faq9">Why do you have two?</label><p class="faq__answer">I was offered a choice of two sizes and was a bit hesitant to go big on my first try, so I picked the small one. I went back to get the bigger one in my other hand to increase the sensation and weight of things I could pick up, and also to experiment with a 3D EM sense (like having 2 eyes for perspective).</p></div><div class="faq"><input class="faq__checkbox" type="checkbox" id="faq10"><label class="faq__question" for="faq10">Can you see them?</label><p class="faq__answer">You can see them under the skin if you’re looking due to a slight discoloration, but they’re not obvious.</p></div><div class="faq"><input class="faq__checkbox" type="checkbox" checked id="faq11"><label class="faq__question" for="faq11">Can you feel them?</label><p class="faq__answer">Yes you can feel them under the skin. Good way to freak people out / prove it’s real.</p></div><div class="faq"><input class="faq__checkbox" type="checkbox" id="faq12"><label class="faq__question" for="faq12">Do they affect what you can do with your hands?</label><p class="faq__answer">Minimally. If placed properly they shouldn’t get in the way of typing, for example. I struggle a bit to play the guitar when I have to use my ring finger to hold down multiple strings. It is an unyielding object inside your hand though, so sometimes if you hit it at the wrong angle it can hurt; I had this at the start with light switches quite often but I guess I adapted my style of flipping light switches. You have to be wary around other magnets, because strong ones can hurt a lot (literally the magnet inside of you is being pulled out. not nice.), this is an increasing concern because for some reason magnets are in everything now - I can’t put the pads of my fingers against the edge of my laptop because of the magnetic closing mechanism. Also my phone has a magnetic sensor in the back for smart cases so it randomly locks itself when I’m holding it which is very annoying, but you get used to these kind of things and naturally avoid them.</p></div><div class="faq"><input class="faq__checkbox" type="checkbox" checked id="faq13"><label class="faq__question" for="faq13">What’s the heaviest thing you can pick up?</label><p class="faq__answer">The small magnet is quite pathetic, maybe 5 paperclips. The big magnet can pick up a ballpoint pen, or a small spoon.</p></div><div class="faq"><input class="faq__checkbox" type="checkbox" id="faq14"><label class="faq__question" for="faq14">Don’t you break [insert electronic object here]?</label><p class="faq__answer">I wipe hotel keycards instantly unless I hold them between my index finger and thumb, and have the ring finger tucked into my palm (a pose I’m used to now, and one that only matters when you have them in both hands). Besides that you’re all good; never had a problem with phones or credit cards or hard drives or SD cards. AFAIK they’re too small to have any significant effect on electronics.</p></div><div class="faq"><input class="faq__checkbox" type="checkbox" id="faq15"><label class="faq__question" for="faq15">Can you get MRIs?</label><p class="faq__answer">Not as is. I have heard that if you tell the radiologist that you have the implant they can add some sort of guard or tape to cover it up that won’t affect the machine, but conflictingly have heard people being turned down for MRIs because of it. I have not faced this problem yet, but have been damn sure to tell all my emergency contacts to immediately tell my medics about the implants if I’m in an accident.</p></div><div class="faq"><input class="faq__checkbox" type="checkbox" id="faq16"><label class="faq__question" for="faq16">Can you go through airport security?</label><p class="faq__answer">Yep, not a problem.</p></div><div class="faq"><input class="faq__checkbox" type="checkbox" id="faq17"><label class="faq__question" for="faq17">Is it dangerous?</label><p class="faq__answer">The danger is in the coating of the magnet breaking down and the metal getting into your blood, hence the whole ‘disposable finger’ thing. I am cautious of any changes in the sensation of the magnets and will not hesitate to have them removed if I am concerned. If something breaks down they should be able to be taken out without damage to the rest of the finger if you catch it early enough. There is a very small chance of this happening though.</p></div><div class="faq"><input class="faq__checkbox" type="checkbox" id="faq18"><label class="faq__question" for="faq18">Do they wear out?</label><p class="faq__answer">Apparently they do. Some say their magnetism dropped off at the 5 year mark, others have said 10-15 years, it depends on the quality of your magnets. Mine are 2 and 3 years old and are still fully functional. I will probably have them removed once they demagnetise.</p></div><div class="faq"><input class="faq__checkbox" type="checkbox" id="faq19"><label class="faq__question" for="faq19">How do you have them taken out?</label><p class="faq__answer">In a sterile environment by a medical professional. I have been told that you can get them removed at A&E (that’s ER to you yanks) with no questions asked. Yay NHS. I have yet to check the validity of this claim. Assuming it’s a bit more gory than the implantation because they’d have to cut away the surrounding tissue. Not looking forward to that.</p></div><div class="faq"><input class="faq__checkbox" type="checkbox" id="faq20"><label class="faq__question" for="faq20">Where can I get one?</label><p class="faq__answer">You still think this is a good idea! Cool! Biohackers seem quite reluctant to share this data, I had to crawl a lot of forums to find the right person to do mine, and I feel I should respect that reticence. That being said, if you need a NYC recommendation send me an email and I’ll pass you on to my guy. (I have a guy!)</p></div><div class="faq"><input class="faq__checkbox" type="checkbox" id="faq21"><label class="faq__question" for="faq21">What other implants exist?</label><p class="faq__answer">RFID and NFC chips are quite abundant but limited in functionality. I’ve seen quite a few large and intrusive biohacking experiments, which I personally wouldn’t touch with a 10ft pole.</p></div></div><div class="research"><h2 class="research__title">Projects</h2><p class="research__description">A few of my projects involving magnet fingers</p><div class="research__table"><div class="research__item"><div class="research__item__video"><iframe width="560" height="315" src="https://www.youtube.com/embed/oeN270w83Cw?color=white&amp;rel=0" frameborder="0" allow="accelerometer; autoplay; encrypted-media; gyroscope; picture-in-picture" allowfullscreen=""></iframe></div><p class="research__item__description">Visualising disturbances to the magnetic field <a href="https://pouretrebelle.github.io/magnetic-drawing-machine/">more info →</a></p></div><div class="research__item"><div class="research__item__video"><iframe width="560" height="315" src="https://www.youtube.com/embed/bYPkuMVaIxE?color=white&amp;rel=0" frameborder="0" allow="accelerometer; autoplay; encrypted-media; gyroscope; picture-in-picture" allowfullscreen=""></iframe></div><p class="research__item__description">A device that communicates invisibly with morse code <a href="https://pouretrebelle.github.io/arduino-morse/">more info →</a></p></div></div><p class="research__footnote">I would love to do some more research with this technology, especially in the fields of linguistics and compensation for sensory disability. If you're intersted in working with me please <a href="mailto:ask@pouretrebelle.com">shoot me an email</a> and we can have a chat about it.</p></div><div class="footer"><svg class="footer__hand" xmlns="http://www.w3.org/2000/svg" viewBox="0 0 396.2 531.6"><path class="footer__hand__outline" d="M155.5 530.9c-5.9-20.6-11.8-50.7-21.8-59.4-9.9-8.7-33.3-22.2-44.5-48.2-11.2-26-37-92.5-40.3-97.5-3.3-5-28.8-46.1-30.4-56.2-1.6-10-15.6-40-17.8-48.7-2.3-8.7.1-24.3 12.8-23.3s33 13.4 45.2 35.5c12.3 22.1 21.9 44.8 33.1 56.1 11.3 11.4 19.9 18.4 23.3 8.1s12.2-56.6 16.2-68.6c4-12 1.8-38 1.6-56.6s1.6-88.7.4-97.3.8-39 8.8-49.3c8-10.3 24-13.2 29.4-3.2s4.8 49 5.1 57.4c.2 8.3 5.9 39.4 6.8 52.7.9 13.3 1.8 61.7 6.1 67.4 4.3 5.7 10.6 7.7 11.3-1.2.7-9 4.3-66.7 4.3-74s6.1-46.7 5.5-55.4c-.6-8.7 3.2-46 6.9-56.7s15.3-16 28.6-9.9 9.2 42.7 8.4 52.1c-.7 9.4-.4 47.4.9 63.3 1.2 16-5 60-5.3 72-.4 12-3.7 22.7 1.3 20s6.7-22.3 11.4-35.9c4.7-13.6 18.3-69.9 20.3-86.6 2-16.7 3.9-51.7 24.9-48.5 20.9 3.1 20.2 36.7 16.5 52-3.7 15.3-6.6 68.3-8.3 80.6-1.7 12.3-13.9 47.3-14.3 58.6-.4 11.3-2.1 29.7 5.3 24.5 7.4-5.2 20.7-20.8 26.7-31.1s17.8-36.3 24.2-49.9 19.5-35.3 31.4-25.9 4.9 30.7-.2 46.5c-5.1 15.8-18.5 46.8-22.9 55.4-4.4 8.6-21.8 41.2-24.2 50.6-2.3 9.4-14.1 105.3-19.8 124-5.8 18.7-18.8 32.2-16.3 52.6s2 54.7 2 54.7"></path><path class="footer__hand__magnet" d="M309.8 96.8c-2.6-.7-4.1-3.4-3.3-5.9l3.8-13.9c.7-2.6 3.4-4.1 5.9-3.3 2.6.7 4.1 3.4 3.3 5.9l-3.8 13.9c-.8 2.6-3.4 4.1-5.9 3.3z"></path></svg><div class="footer__colophon">a mini <a href="https://twitter.com/charlotte_dann">@charlotte_dann</a> site</div></div><script type="text/javascript" src="/main.js"></script></body></html>

diff --git a/docs/main.js b/docs/main.js
@@ -1,1 +1,1 @@
[2 lines of base64/hex data omitted]

diff --git a/docs/main.css b/docs/main.css
@@ -184,7 +184,7 @@ html {
 body {
   display: block;
   background: #fff;
-  color: #000;
+  color: #000044;
   margin: 0 1em;
   font-family: t26-carbon, monospace;
   font-size: 1.25rem;
@@ -218,7 +218,7 @@ a {
   z-index: 1;
   display: inline-block;
   text-decoration: none;
-  color: #000; }
+  color: #000044; }
   a:after {
     content: '';
     display: block;
@@ -232,11 +232,11 @@ a {
 
 ::-moz-selection {
   background: rgba(241, 255, 121, 0.5);
-  color: #000; }
+  color: #000044; }
 
 ::selection {
   background: rgba(241, 255, 121, 0.5);
-  color: #000; }
+  color: #000044; }
 
 .background {
   position: fixed;
@@ -258,7 +258,7 @@ a {
       width: 60%; } }
   .hands__outline {
     fill: transparent;
-    stroke: #000;
+    stroke: #000044;
     stroke-width: 0.125em; }
     @media (min-width: 601px) {
       .hands__outline {
@@ -327,6 +327,7 @@ a {
     overflow: hidden;
     -webkit-appearance: none; }
   .faq__question {
+    display: inline-block;
     position: relative;
     font-family: t26-carbon, monospace;
     font-weight: 700;
@@ -402,4 +403,15 @@ a {
     margin: 0 auto;
     max-width: 800px;
     font-size: 0.75em; }
+
+.footer {
+  text-align: center;
+  margin-bottom: 2em; }
+  .footer__hand {
+    width: 2em;
+    margin-bottom: 1em; }
+    .footer__hand__outline {
+      fill: #000044; }
+    .footer__hand__magnet {
+      fill: #ff1749; }
 
